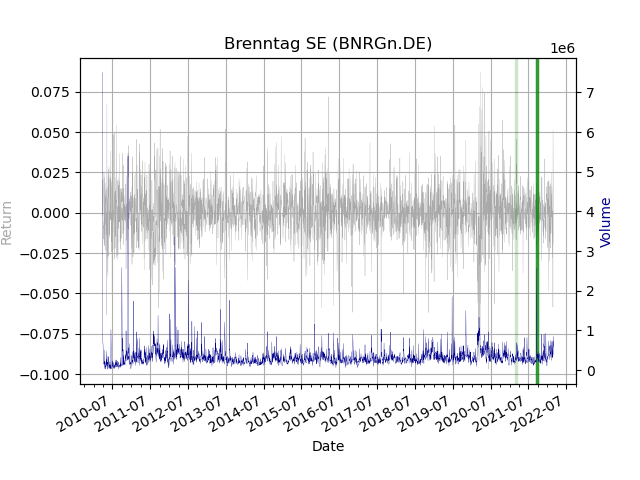
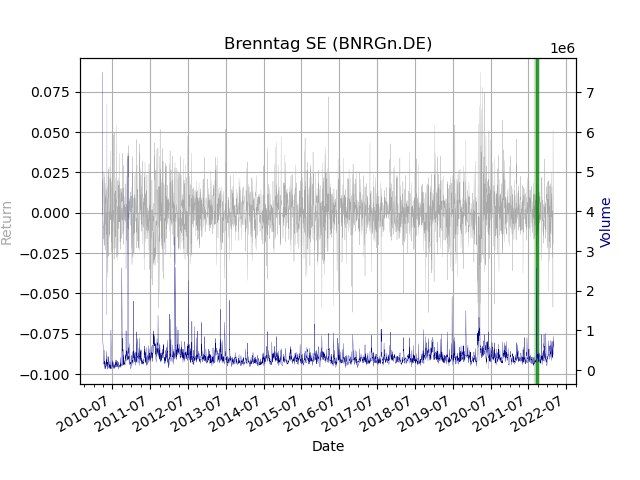
datetime fix

Changed region(s): [[0.7812, 0.125, 0.8125, 0.7188], [0.7812, 0.75, 0.8125, 0.7812]]

diff --git a/01_Data_and_Preprocessing/01_preprocessing.py b/01_Data_and_Preprocessing/01_preprocessing.py
@@ -39,10 +39,10 @@ info_df.reset_index(drop=True, inplace=True)
 
 announcements = pd.read_csv('https://raw.githubusercontent.com/LarsWrede/GFSM/main/01_Data_and_Preprocessing/Historical_Index_Compositions.csv', sep=';')
 announcements.rename(columns={'Date of change': 'Date', 'Date of announcement': 'Announcement'}, inplace=True)
-announcements['Date'] = pd.to_datetime(announcements['Date'])
+announcements['Date'] = pd.to_datetime(announcements['Date'], dayfirst=True)
+announcements['Announcement'] = pd.to_datetime(announcements['Announcement'], dayfirst=True) #Soph
 
 info_df = info_df.join(announcements.set_index('Date')['Announcement'], on='Date')
-info_df['Announcement'] = pd.to_datetime(info_df['Announcement'])
 
 stockdata_df = pd.read_csv('https://raw.githubusercontent.com/LarsWrede/GFSM/main/01_Data_and_Preprocessing/stocks-historical-data.csv', sep=';')[1:]
 temp_list = list(stockdata_df.columns)
